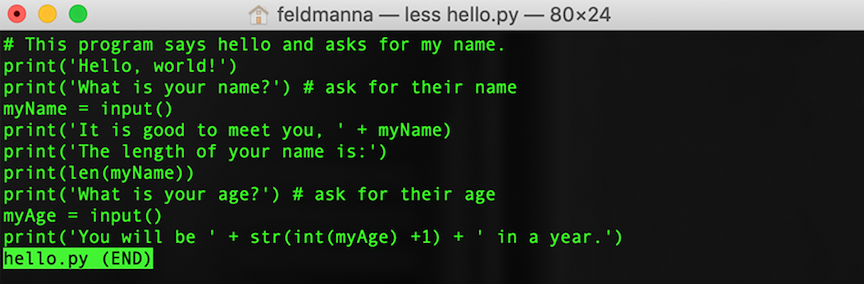
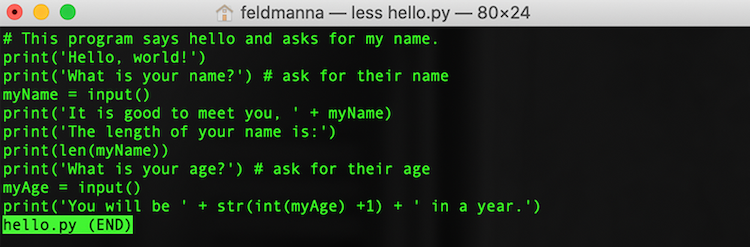
Image resizing
The best option is just to re-size the images manually, so I did that.

diff --git a/bash_scripting_101/bash_scripting_101.md b/bash_scripting_101/bash_scripting_101.md
@@ -113,7 +113,7 @@ In our installation section, we covered how accessing CLI tools to run bash scri
 - `Cd`: change directory
 - `Echo`: prints out text in the terminal window- especially useful for declaring environment variables which reveal both permissions and what strings can be passed.
 
-  ![Echo variable example demonstrating how to print and set the price of a pint](media/echo_example.png)
+  ![Echo variable example demonstrating how to print and set the price of a pint](media/echo_example_large.png)
 
 - `Touch`: creates a new file
 
@@ -126,7 +126,7 @@ In our installation section, we covered how accessing CLI tools to run bash scri
 
 - `Man`: reveals function of a given command
 
-  ![Grep man command output with the full definition and some options displayed](media/grep_output.png)
+  ![Grep man command output with the full definition and some options displayed](media/grep_output_large.png)
 
 - `Mv`: move or rename a directory and allows for batch processing
   `mv *.txt folder` will move all files with a .txt file extension into a folder for example.
@@ -141,7 +141,7 @@ In our installation section, we covered how accessing CLI tools to run bash scri
   - `cat file 1 >> file 2` will append the contents of file 1 at the end of file 2.
   - `cat file 2` will now confirm if the content in file 1 was successfully appended to the end of file 2.
 
-  ![Head output of slightly less basic python script that organizes a picnic gathering menu amongst three friends](media/head_example.png)
+  ![Head output of slightly less basic python script that organizes a picnic gathering menu amongst three friends](media/head_example_small.png)
 
 ### Knowledge Check 2
 
